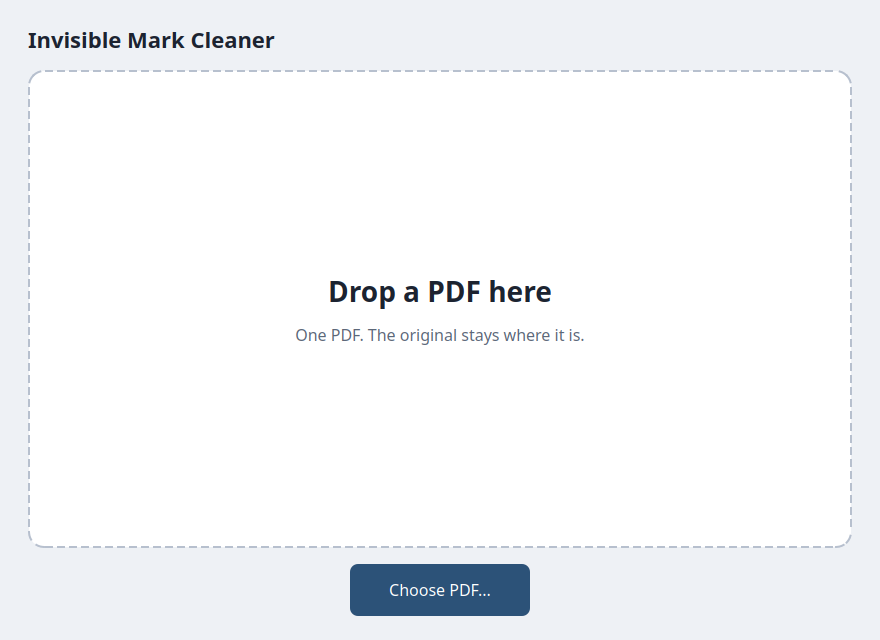
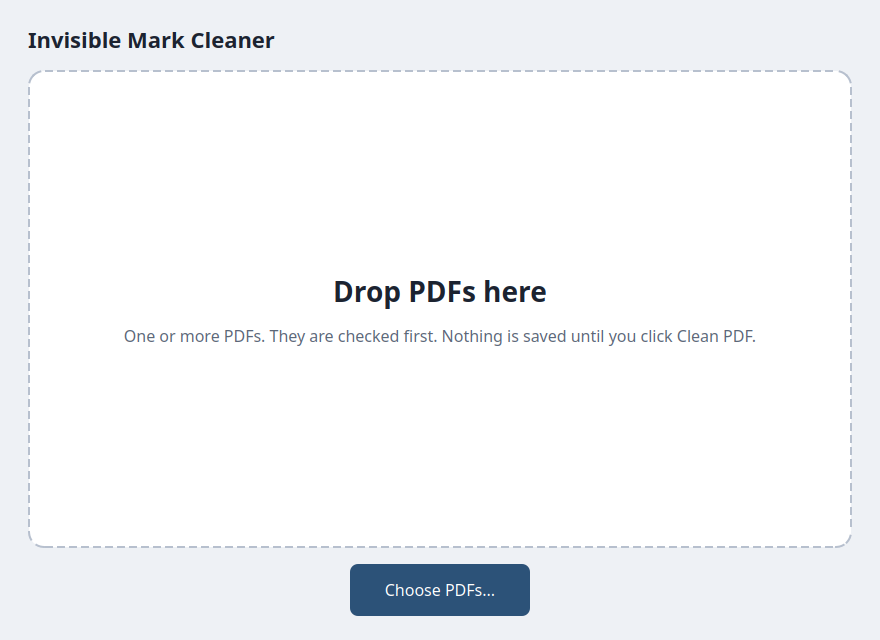
README and screenshots: check first, Clean PDF on click, several PDFs, last folder

Changed region(s): [[0.1227, 0.4375, 0.8591, 0.5625], [0.4295, 0.9062, 0.5523, 0.9375]]

diff --git a/README.md b/README.md
@@ -4,7 +4,7 @@
 
 ## What it is
 
-Invisible Mark Cleaner is a desktop program for one PDF. It looks for text marks that do not show on the page, shows a report in the window, and saves a clean copy next to the original file. The original file does not change.
+Invisible Mark Cleaner is a desktop program for PDF files. It checks one or more PDFs for text marks that do not show on the page and shows a report in the window. Checking saves nothing. Only when marks were found, and only after you click **Clean PDF**, it saves a clean copy next to each affected file. The original files do not change.
 
 There is no server, no account, and no telemetry. The program opens no network connections.
 
@@ -29,11 +29,12 @@ The report can include these marks.
 ## How to use it
 
 1. Open Invisible Mark Cleaner.
-2. Drop one PDF on the window, or click **Choose PDF...**.
-3. Read the report. The table columns are Page, Type, Text, and Details. When a mark is not tied to a page, the Page column says Document.
-4. The clean copy is saved in the same folder. The name is `name-clean.pdf`. When that file already exists, the name becomes `name-clean-2.pdf`, then `name-clean-3.pdf`, and so on.
+2. Drop one or more PDFs on the window, or click **Choose PDFs...** and select one or more files. The dialog opens in the folder you used last time.
+3. Read the report. Nothing has been saved yet. With several PDFs, a list shows the result for each file; select a file to see its marks. The table columns are Page, Type, Text, and Details. When a mark is not tied to a page, the Page column says Document.
+4. When no marks are found, the report says so, the **Clean PDF** button stays disabled, and no clean copy is made.
+5. When marks are found, click **Clean PDF** (with several affected files, **Clean 2 PDFs** and so on). Only the files with marks are cleaned. Each clean copy is saved in the same folder as its original. The name is `name-clean.pdf`. When that file already exists, the name becomes `name-clean-2.pdf`, then `name-clean-3.pdf`, and so on.
 
-When the folder cannot be written, the program asks for another path. When no marks are found, the report says so and the clean copy is saved anyway.
+When a folder cannot be written, the program asks for another path for that file. Files that cannot be read, such as password-protected PDFs, are listed with the reason and skipped.
 
 ## Privacy
 
@@ -124,10 +125,10 @@ python -m pytest
 To open the window on Linux without a physical display.
 
 ```bash
-xvfb-run -a python scripts/ui_smoke.py tests/fixtures/white_text.pdf /tmp/ui-smoke
+xvfb-run -a python scripts/ui_smoke.py tests/fixtures/white_text.pdf tests/fixtures/clean_document.pdf /tmp/ui-smoke
 ```
 
-The script opens the window, drops the PDF through the same path as a drag, waits for the report, and saves `idle.png` and `done.png`.
+The script opens the window, drops the PDFs through the same path as a drag, waits for the report, and saves `idle.png` and `report.png`. When marks were found, it then clicks **Clean PDF**, waits, and saves `done.png`.
 
 ## Known limitations
 
@@ -141,5 +142,5 @@ The script opens the window, drops the PDF through the same path as a drag, wait
 - **Reused forms.** A form XObject is decided once, against the background of its first use. If it is reused over a different background, that decision applies to every use.
 - **Not inspected.** Annotations and form fields, tiling patterns, Type3 glyph procedures, off-page text and tiny text.
 - **Metadata.** Non-standard Info keys and XMP namespaces are always removed. Standard fields (Title, Subject, Keywords, Producer...) are removed only when they read like instructions to a model or opaque tracking tokens. This is a heuristic and can miss or over-match.
-- **One file at a time.** Folder mode is a TODO.
+- **No folder mode.** Several PDFs can be checked at once, but a dropped folder is not searched for PDFs.
 - **Unsigned builds.** The `.app` and `.exe` are unsigned. See "Signing and notarization".
